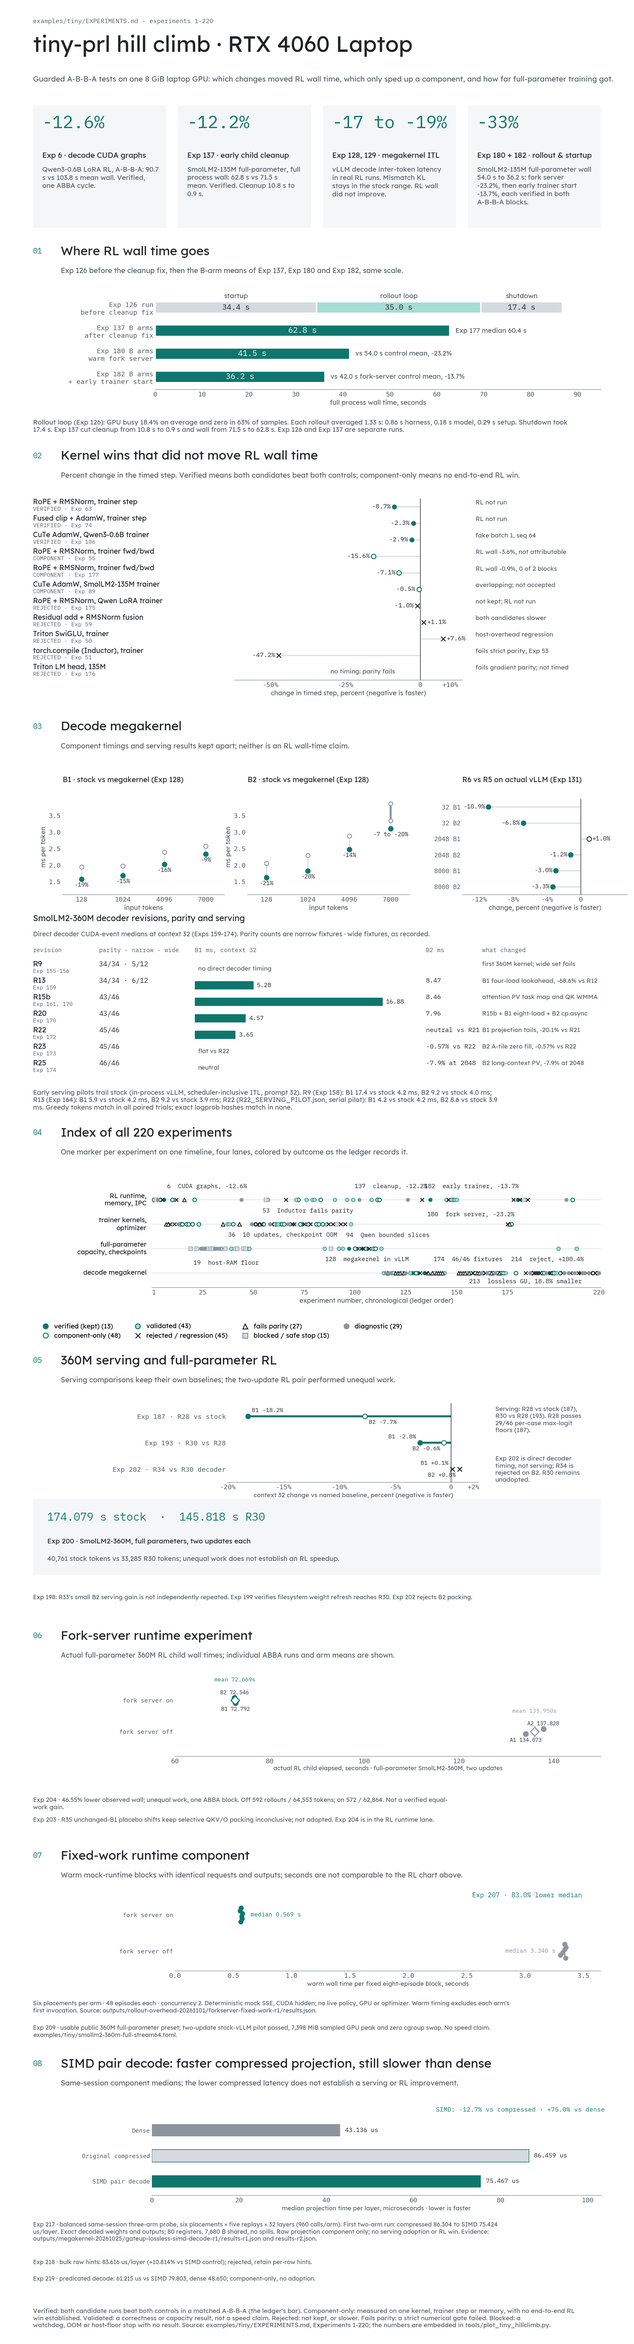
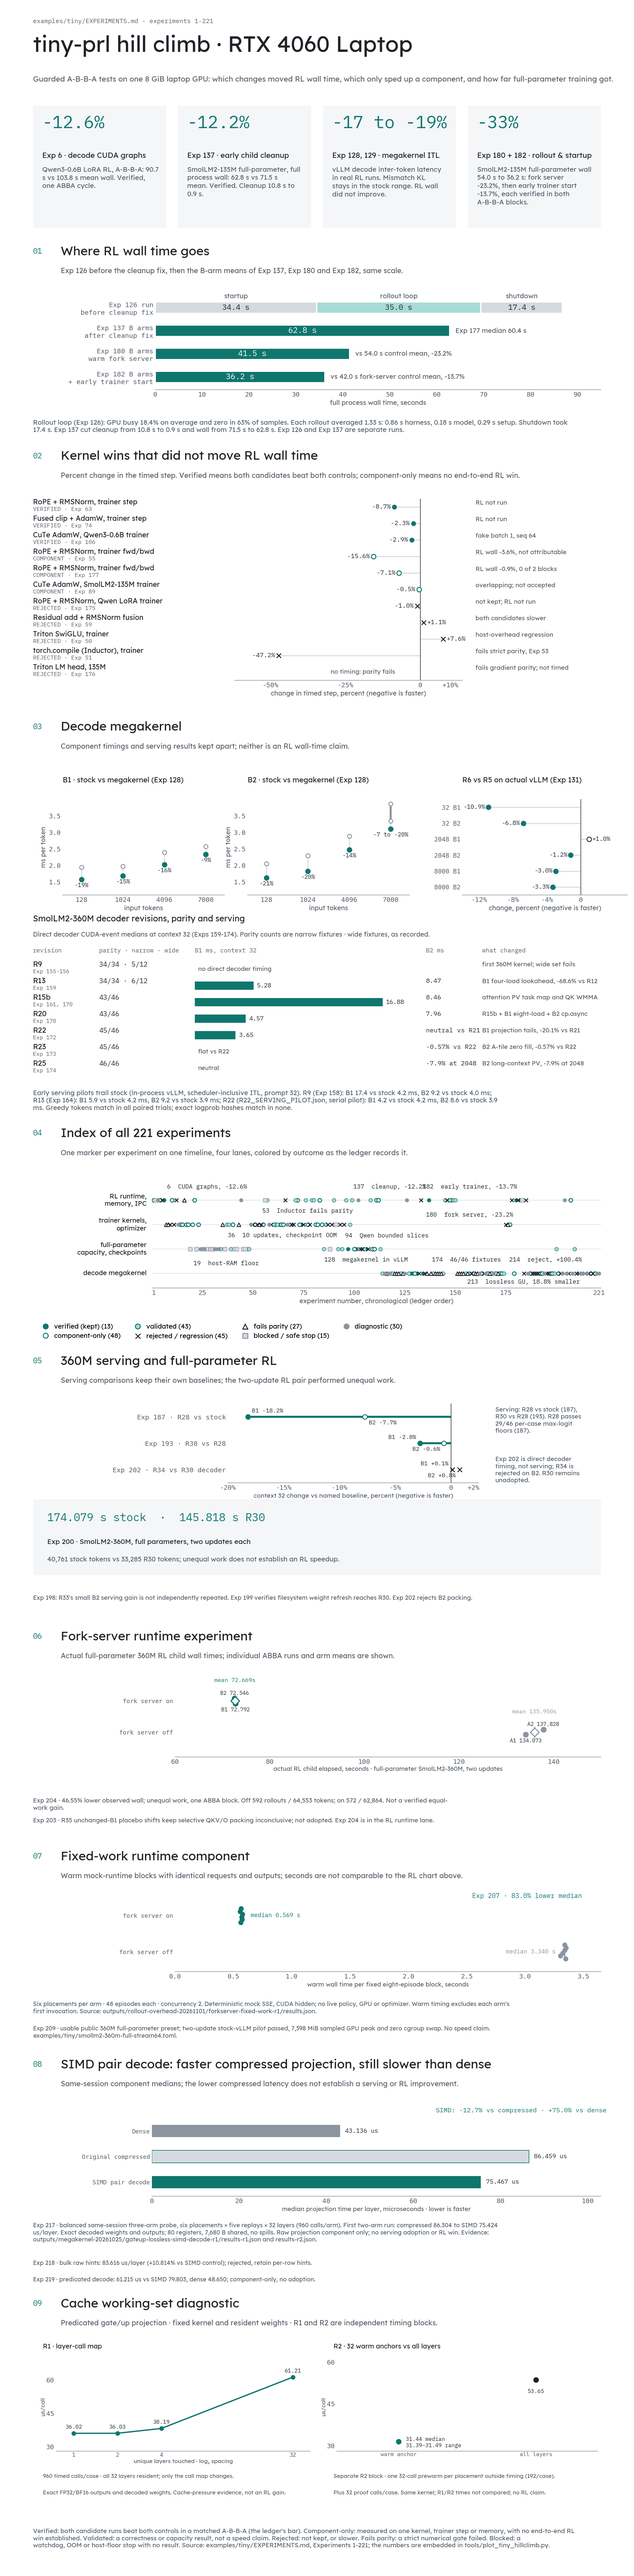
docs: add weight-reuse diagnostic panel

diff --git a/tools/plot_tiny_hillclimb.py b/tools/plot_tiny_hillclimb.py
@@ -1,7 +1,7 @@
 #!/usr/bin/env python3
 """Render the tiny-prl hill-climb poster (examples/tiny/hillclimb.png).
 
-Every number is embedded from examples/tiny/EXPERIMENTS.md (Experiments 1-220);
+Every number is embedded from examples/tiny/EXPERIMENTS.md (Experiments 1-221);
 the script reads no other file. The first positional argument is accepted for
 CLI compatibility and is not used.
 
@@ -20,7 +20,7 @@ from matplotlib import font_manager
 from matplotlib.lines import Line2D
 
 PAGE_W = 9.6  # inches; 1920 px at 200 dpi
-PAGE_H = 35.5  # inches; 7100 px at 200 dpi
+PAGE_H = 39.0  # inches; 7800 px at 200 dpi
 DPI = 200
 GUTTER = 0.5
 
@@ -107,7 +107,7 @@ SERVING = {
     "R22 (R22_SERVING_PILOT.json, serial pilot)": ((4.20, 3.93), (4.24, 8.58)),
 }
 
-# Experiment index. Outcome codes and lanes for all 220 experiments.
+# Experiment index. Outcome codes and lanes for all 221 experiments.
 OUTCOMES = {
     "V": "verified (kept)",
     "C": "component-only",
@@ -291,7 +291,7 @@ CODES = {
         176,
     ],
     "B": [183, 2, 19, 22, 27, 29, 30, 36, 41, 42, 45, 46, 56, 88, 91],
-    "D": [3, 13, 24, 26, 31, 32, 33, 44, 49, 58, 67, 102, 115, 117, 125, 126, 162, 165, 169, 186, 194, 203, 204, 205, 208, 212, 213, 215, 220],
+    "D": [3, 13, 24, 26, 31, 32, 33, 44, 49, 58, 67, 102, 115, 117, 125, 126, 162, 165, 169, 186, 194, 203, 204, 205, 208, 212, 213, 215, 220, 221],
 }
 LANES = [
     (
@@ -536,6 +536,7 @@ LANES = [
             218,
             219,
             220,
+            221,
         ],
     ),
 ]
@@ -582,10 +583,10 @@ def register_fonts() -> tuple[str, str]:
 def check_index() -> None:
     codes_of = {e: code for code, exps in CODES.items() for e in exps}
     lanes_of = {e: key for key, _, exps in LANES for e in exps}
-    assert len(codes_of) == sum(map(len, CODES.values())) == 220
-    assert len(lanes_of) == sum(len(exps) for _, _, exps in LANES) == 220
-    assert sorted(codes_of) == list(range(1, 221)), "every experiment needs exactly one outcome"
-    assert sorted(lanes_of) == list(range(1, 221)), "every experiment needs exactly one lane"
+    assert len(codes_of) == sum(map(len, CODES.values())) == 221
+    assert len(lanes_of) == sum(len(exps) for _, _, exps in LANES) == 221
+    assert sorted(codes_of) == list(range(1, 222)), "every experiment needs exactly one outcome"
+    assert sorted(lanes_of) == list(range(1, 222)), "every experiment needs exactly one lane"
 
 
 class Page:
@@ -916,7 +917,7 @@ def draw_timeline(pg, top):
     height = 1.55
     lane_row = {key: 3 - idx for idx, (key, _, _) in enumerate(LANES)}
     ax = pg.axes(2.3, top, PAGE_W - GUTTER - 2.3, height)
-    ax.set_xlim(0, 221)
+    ax.set_xlim(0, 222)
     ax.set_ylim(-0.6, 3.6)
     for key, label, _ in LANES:
         ax.axhline(lane_row[key], color=RULE, linewidth=0.6, zorder=0)
@@ -948,7 +949,7 @@ def draw_timeline(pg, top):
             va="center",
         )
     ax.set_yticks([])
-    ax.set_xticks([1, 25, 50, 75, 100, 125, 150, 175, 220])
+    ax.set_xticks([1, 25, 50, 75, 100, 125, 150, 175, 221])
     ax.set_xlabel(
         "experiment number, chronological (ledger order)", fontsize=7.1, color=SUB, fontfamily=pg.prose, labelpad=2
     )
@@ -1006,7 +1007,7 @@ def draw_footer(pg, y):
             "measured on one kernel, trainer step or memory, with no end-to-end RL win established. Validated: a "
             "correctness or capacity result, not a speed claim. Rejected: not kept, or slower. Fails parity: a strict "
             "numerical gate failed. Blocked: a watchdog, OOM or host-floor stop with no result. Source: "
-        "examples/tiny/EXPERIMENTS.md, Experiments 1-220; the numbers are embedded in "
+        "examples/tiny/EXPERIMENTS.md, Experiments 1-221; the numbers are embedded in "
             "tools/plot_tiny_hillclimb.py.",
             175,
         ),
@@ -1141,11 +1142,82 @@ def draw_simd_projection(pg):
     pg.text(GUTTER, 34.47, "Exp 219 · predicated decode: 61.215 us vs SIMD 79.803, dense 48.650; component-only, no adoption.", size=6.4, color=SUB)
 
 
+def draw_cache_working_set(pg):
+    r1 = [(1, 36.015999), (2, 36.030000), (4, 38.189501), (32, 61.209500)]
+    r2_anchor = (31.392001, 31.441000, 31.485500)
+    r2_all_layers = 53.647999
+
+    pg.text(0.65, 35.48, "R1 · layer-call map", size=7.2, color=INK)
+    ax = pg.axes(0.85, 35.76, 3.85, 1.35)
+    xs = [0, 1, 2, 5]
+    ys = [value for _, value in r1]
+    ax.plot(xs, ys, color=ACCENT, linewidth=1.4, marker="o", markersize=4, markerfacecolor=ACCENT)
+    for x, y in zip(xs, ys):
+        ax.annotate(
+            f"{y:.2f}",
+            (x, y),
+            xytext=(0, 5),
+            textcoords="offset points",
+            ha="center",
+            fontsize=6.1,
+            color=INK,
+            fontfamily=pg.mono,
+        )
+    ax.set_xlim(-0.4, 5.4)
+    ax.set_ylim(28, 68)
+    ax.set_xticks(xs, ["1", "2", "4", "32"])
+    ax.set_yticks([30, 45, 60])
+    ax.set_ylabel("µs/call", fontsize=6.2, color=SUB, fontfamily=pg.prose, labelpad=1)
+    ax.set_xlabel("unique layers touched · log₂ spacing", fontsize=6.2, color=SUB, fontfamily=pg.prose, labelpad=1)
+    clean_axes(ax)
+    ax.tick_params(axis="x", labelsize=6.2, pad=1)
+
+    pg.text(5.05, 35.48, "R2 · 32 warm anchors vs all layers", size=7.2, color=INK)
+    ax = pg.axes(5.1, 35.76, 3.95, 1.35)
+    ax.set_xlim(-0.45, 1.45)
+    ax.set_ylim(28, 60)
+    ax.vlines(0, r2_anchor[0], r2_anchor[2], color=ACCENT, linewidth=2.0)
+    ax.scatter([0], [r2_anchor[1]], s=25, color=ACCENT, zorder=3)
+    ax.scatter([1], [r2_all_layers], s=25, color=INK, zorder=3)
+    ax.annotate(
+        "31.44 median\n31.39–31.49 range",
+        (0, r2_anchor[1]),
+        xytext=(8, -1),
+        textcoords="offset points",
+        ha="left",
+        va="center",
+        fontsize=5.9,
+        color=INK,
+        fontfamily=pg.mono,
+    )
+    ax.annotate(
+        "53.65",
+        (1, r2_all_layers),
+        xytext=(0, -10),
+        textcoords="offset points",
+        ha="center",
+        va="top",
+        fontsize=6.1,
+        color=INK,
+        fontfamily=pg.mono,
+    )
+    ax.set_xticks([0, 1], ["warm anchor", "all layers"])
+    ax.set_yticks([30, 45, 60])
+    ax.set_ylabel("µs/call", fontsize=6.2, color=SUB, fontfamily=pg.prose, labelpad=1)
+    clean_axes(ax)
+    ax.tick_params(axis="x", labelsize=5.9, pad=1)
+
+    pg.text(0.65, 37.45, "960 timed calls/case · all 32 layers resident; only the call map changes.", size=6.1, color=SUB)
+    pg.text(5.05, 37.45, "Separate R2 block · one 32-call prewarm per placement outside timing (192/case).", size=6.1, color=SUB)
+    pg.text(0.65, 37.70, "Exact FP32/BF16 outputs and decoded weights. Cache-pressure evidence, not an RL gain.", size=6.1, color=SUB)
+    pg.text(5.05, 37.70, "Plus 32 proof calls/case. Same kernel; R1/R2 times not compared; no RL claim.", size=6.1, color=SUB)
+
+
 def build(output: Path, prose: str, mono: str) -> None:
     fig = plt.figure(figsize=(PAGE_W, PAGE_H), dpi=DPI, facecolor="white")
     pg = Page(fig, prose, mono)
 
-    pg.text(GUTTER, 0.28, "examples/tiny/EXPERIMENTS.md · experiments 1-220", size=6.8, color=SUB, mono=True)
+    pg.text(GUTTER, 0.28, "examples/tiny/EXPERIMENTS.md · experiments 1-221", size=6.8, color=SUB, mono=True)
     pg.text(GUTTER, 0.52, "tiny-prl hill climb · RTX 4060 Laptop", size=24, color=INK, weight="normal")
     pg.text(
         GUTTER,
@@ -1223,7 +1295,7 @@ def build(output: Path, prose: str, mono: str) -> None:
     pg.section(
         17.1,
         "04",
-        "Index of all 220 experiments",
+        "Index of all 221 experiments",
         "One marker per experiment on one timeline, four lanes, colored by outcome as the ledger records it.",
     )
     draw_timeline(pg, 17.95)
@@ -1236,7 +1308,9 @@ def build(output: Path, prose: str, mono: str) -> None:
     draw_fixed_work_runtime(pg)
     pg.section(31.2, "08", "SIMD pair decode: faster compressed projection, still slower than dense", "Same-session component medians; the lower compressed latency does not establish a serving or RL improvement.")
     draw_simd_projection(pg)
-    draw_footer(pg, 34.96)
+    pg.section(34.82, "09", "Cache working-set diagnostic", "Predicated gate/up projection · fixed kernel and resident weights · R1 and R2 are independent timing blocks.")
+    draw_cache_working_set(pg)
+    draw_footer(pg, 38.28)
 
     fig.savefig(output, dpi=DPI, facecolor="white")
     plt.close(fig)

diff --git a/examples/tiny/EXPERIMENTS.md b/examples/tiny/EXPERIMENTS.md
@@ -2054,3 +2054,13 @@ The candidate packs each row's first raw-escape offset and escape count into one
 Five alternating placements with five graph replays each give 800 projection calls per arm. The predicated control median is 56.736 us/layer (56.608–57.737); packed ranges measure 56.704 us/layer (56.640–57.440), about 0.0564% lower by median. The placement ranges overlap, so this is no measurable speed win and the change is not adopted. All 157,286,400 decoded BF16 weights are exact, and all 327,680 checked outputs per arm match exactly in FP32 and BF16; replay-write checks pass and validation errors are zero.
 
 Both kernels use 62 registers and 7,680 bytes shared memory, with no spills. Guards pass with zero stop reason, zero swap, 1,019 MiB sampled GPU peak and at least 8.08 GB available host RAM. This is a projection-component result only; it establishes no serving or RL improvement. Evidence: `outputs/megakernel-20261025/gateup-lossless-packed-ranges-r1/results-r1.json` and `guard-inner-r1/result.json` / `guard-outer-r1/result.json`.
+
+## Experiment 221: cache working-set diagnostics support cache pressure as a factor
+
+The frozen predicated gate/up projection kernel and all 32 encoded GPU-resident layers remain unchanged. In R1, each 32-call graph maps calls across 1, 2, 4 or 32 unique layers; only this call-to-layer map changes. Six placements and five graph replays per placement produce 960 timed calls per case. Median time per call is 36.016, 36.030, 38.190 and 61.209 us, respectively, while the corresponding distinct encoded working sets including metadata are 8,000,548, 16,000,232, 31,990,512 and 256,225,056 bytes. The 32-layer case is slower than the one- and two-layer cases with the same kernel, but this probe does not isolate cache misses from other address or data effects.
+
+R2 is a separate timing block with 33 cases: 32 single-layer anchors and one case that visits layers 0 through 31. Each case has six placements and five timed graph replays per placement, again totaling 960 timed calls. The warm-anchor medians span 31.392 to 31.485 us/call, with a median of 31.441 us/call; the all-layers case measures 53.648 us/call. Each placement has one 32-call prewarm outside timing, or 192 prewarm calls per case, plus 32 correctness-proof calls. Do not compare R1 and R2 absolute times because their setup differs.
+
[1 lines of base64/hex data omitted]
+
+Evidence: `outputs/megakernel-20261025/gateup-lossless-cache-working-set-r1/results-r1.json` and `results-r2.json`.
